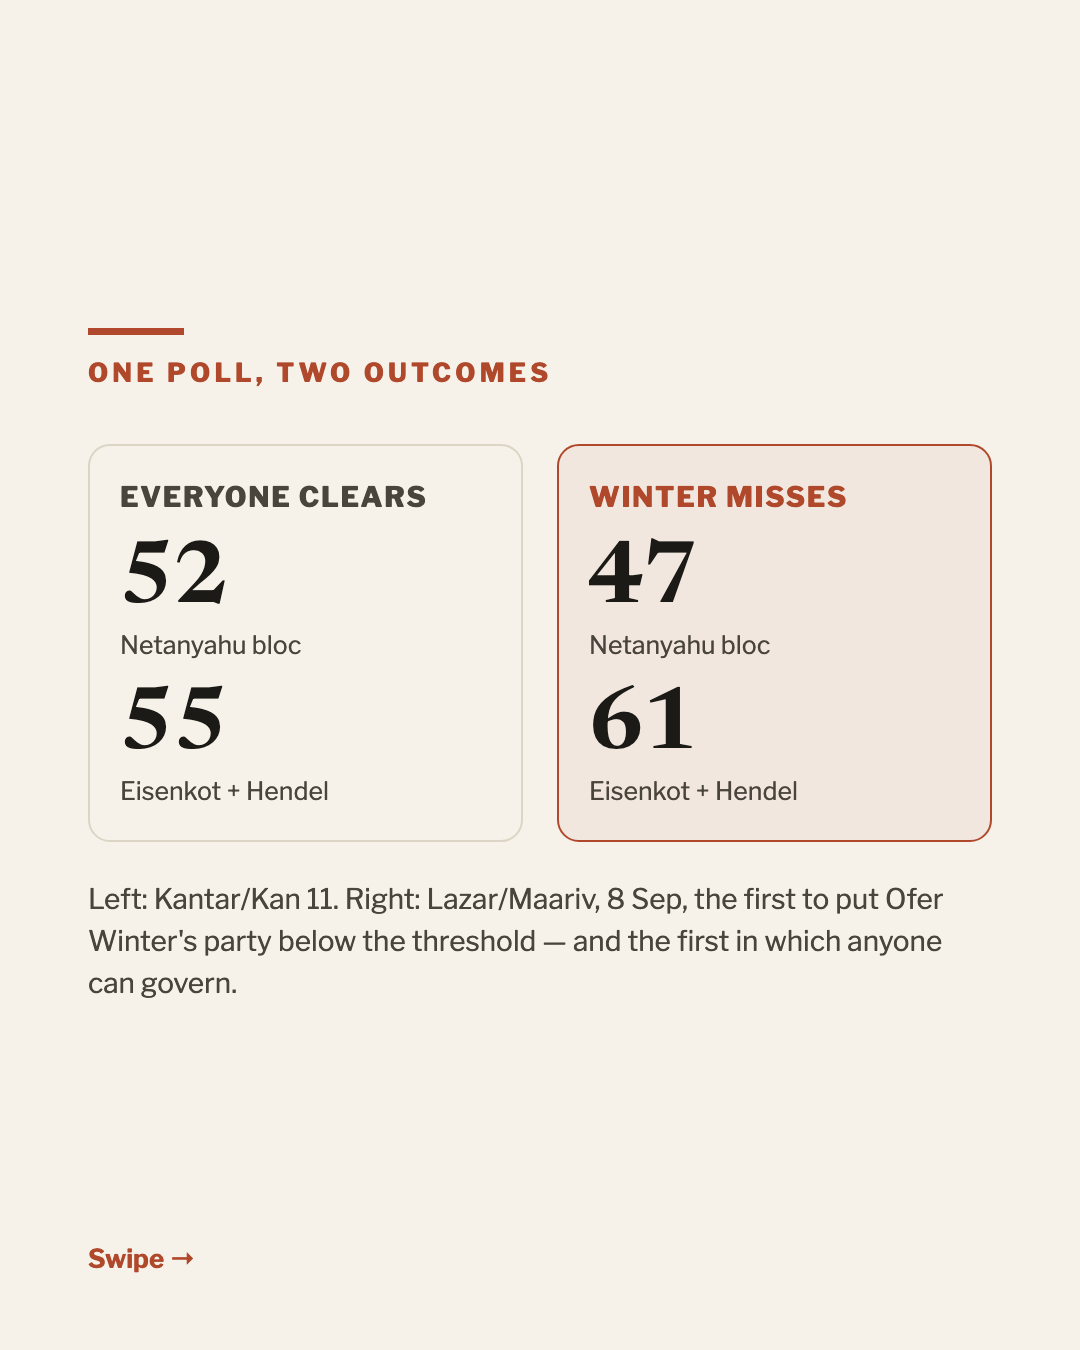
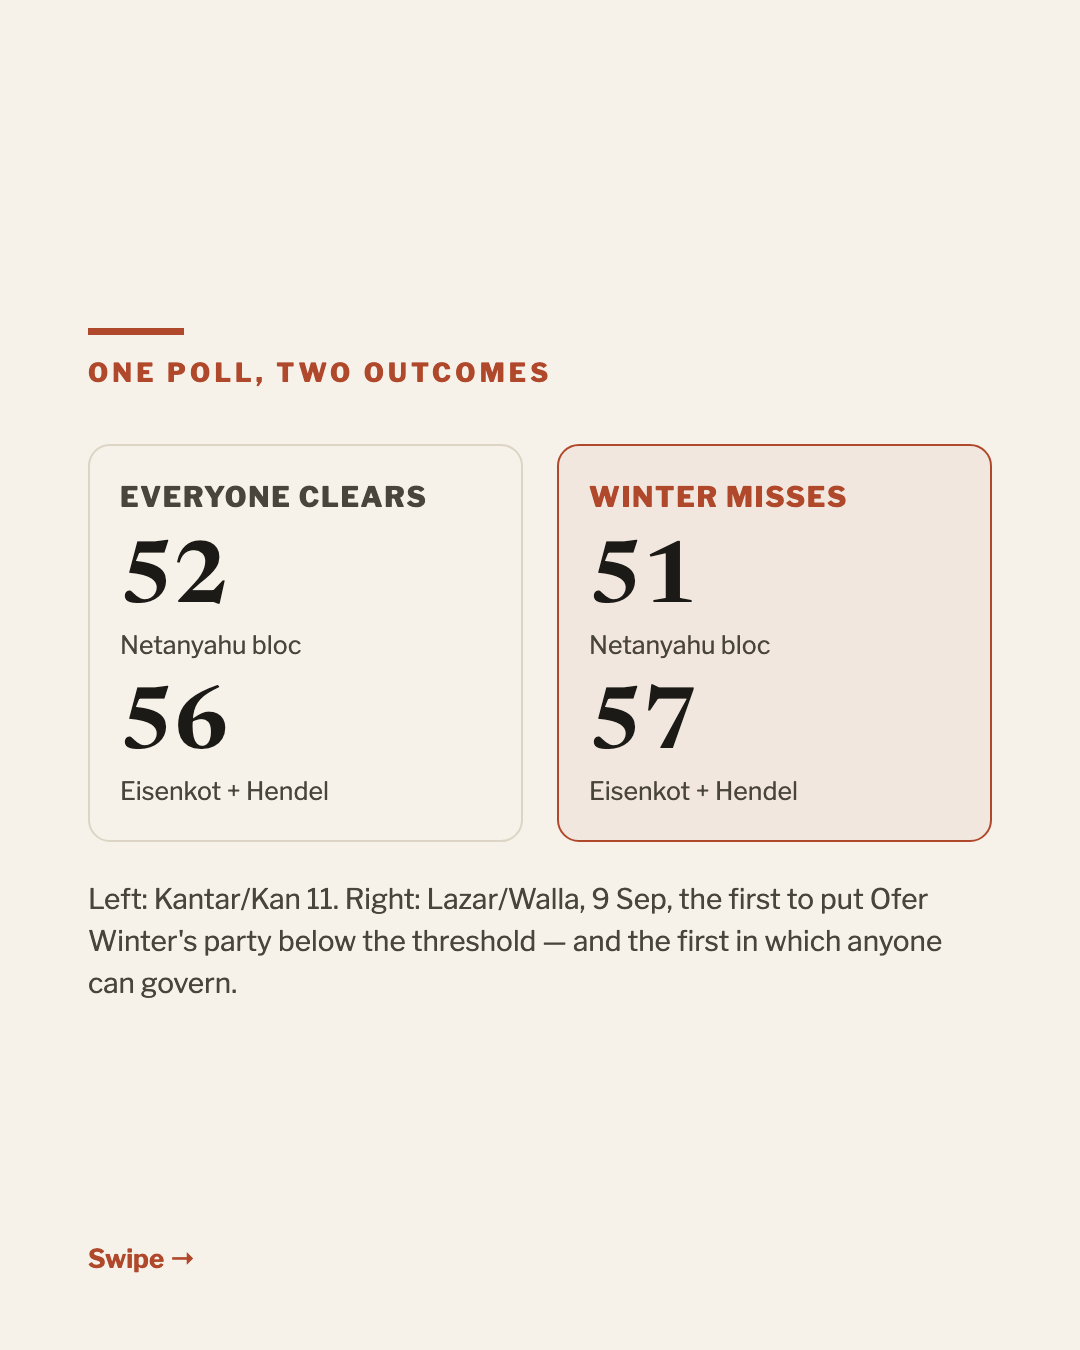
Polls to 9 Sep: the threshold risk has moved to Hendel
Six polls landed on the 9th and the blocs barely move — Kantar has
Netanyahu on 52 and Eisenkot on 56 with Hendel — but four of the six now
put the Reservists below 3.25%. That is the partner the change bloc's only
majority ran through: without him Eisenkot reaches 55, and even reaching
for Ra'am leaves him at 60.

The state of play led on Maariv's 8 September poll, which has since fallen
out of the picker, so a reader could not select the poll the argument
rested on. Rewritten around what is now on screen, and the wild-card note
with it.

Cards and carousel regenerated against the new numbers.

diff --git a/assets/social/carousel.html b/assets/social/carousel.html
@@ -58,10 +58,10 @@ government.</div>
 <div class='kicker' style='margin-top:22px'>THE DEADLOCK</div>
 <div class='rows'>
 <div class='row '><span class='lab'>Netanyahu bloc</span><span class='val'>52</span></div>
-<div class='row '><span class='lab'>Change bloc</span><span class='val'>51</span></div>
+<div class='row '><span class='lab'>Change bloc</span><span class='val'>52</span></div>
 <div class='row hi'><span class='lab'>Needed to govern</span><span class='val'>61</span></div>
 </div>
-<div class='note'>Kantar/Kan 11, Sep 6, 2026. Across two dozen polls from six houses in three weeks, neither bloc reaches 61 — not once.</div>
+<div class='note'>Kantar/Kan 11, Sep 9, 2026. Across two dozen polls from six houses in three weeks, neither bloc reaches 61 — not once.</div>
 </div>
 <div class='foot'>Swipe →</div>
 </div>
@@ -94,10 +94,10 @@ constraint.</div>
 <div class='rule'></div>
 <div class='kicker' style='margin-top:22px'>ONE POLL, TWO OUTCOMES</div>
 <div class='cols'>
-<div class='col '><h3>Everyone clears</h3><div class='pair'><div class='n'>52</div><div class='t'>Netanyahu bloc</div></div><div class='pair'><div class='n'>55</div><div class='t'>Eisenkot + Hendel</div></div></div>
-<div class='col win'><h3>Winter misses</h3><div class='pair'><div class='n'>47</div><div class='t'>Netanyahu bloc</div></div><div class='pair'><div class='n'>61</div><div class='t'>Eisenkot + Hendel</div></div></div>
+<div class='col '><h3>Everyone clears</h3><div class='pair'><div class='n'>52</div><div class='t'>Netanyahu bloc</div></div><div class='pair'><div class='n'>56</div><div class='t'>Eisenkot + Hendel</div></div></div>
+<div class='col win'><h3>Winter misses</h3><div class='pair'><div class='n'>51</div><div class='t'>Netanyahu bloc</div></div><div class='pair'><div class='n'>57</div><div class='t'>Eisenkot + Hendel</div></div></div>
 </div>
-<div class='note'>Left: Kantar/Kan 11. Right: Lazar/Maariv, 8 Sep, the first to put Ofer Winter's party below the threshold — and the first in which anyone can govern.</div>
+<div class='note'>Left: Kantar/Kan 11. Right: Lazar/Walla, 9 Sep, the first to put Ofer Winter's party below the threshold — and the first in which anyone can govern.</div>
 </div>
 <div class='foot'>Swipe →</div>
 </div>

diff --git a/assets/social/twitter-card.html b/assets/social/twitter-card.html
@@ -25,11 +25,11 @@ h1 { font-family:Newsreader,Georgia,serif; font-weight:600; font-size:80px; line
   <h1>Nobody can form a government.</h1>
   <div class='blocs'>
     <div class='b'><div class='n'>52</div><div class='t'>Netanyahu bloc</div></div>
-    <div class='b'><div class='n'>55</div><div class='t'>Eisenkot + Hendel</div></div>
+    <div class='b'><div class='n'>56</div><div class='t'>Eisenkot + Hendel</div></div>
     <div class='b line'><div class='n'>61</div><div class='t'>Needed to govern</div></div>
   </div>
 </div>
 <div class='foot'>
   <span>kowaz.com/coalitionbuilder</span>
-  <span class='m'>Kantar/Kan 11, Sep 6, 2026</span>
+  <span class='m'>Kantar/Kan 11, Sep 9, 2026</span>
 </div>
